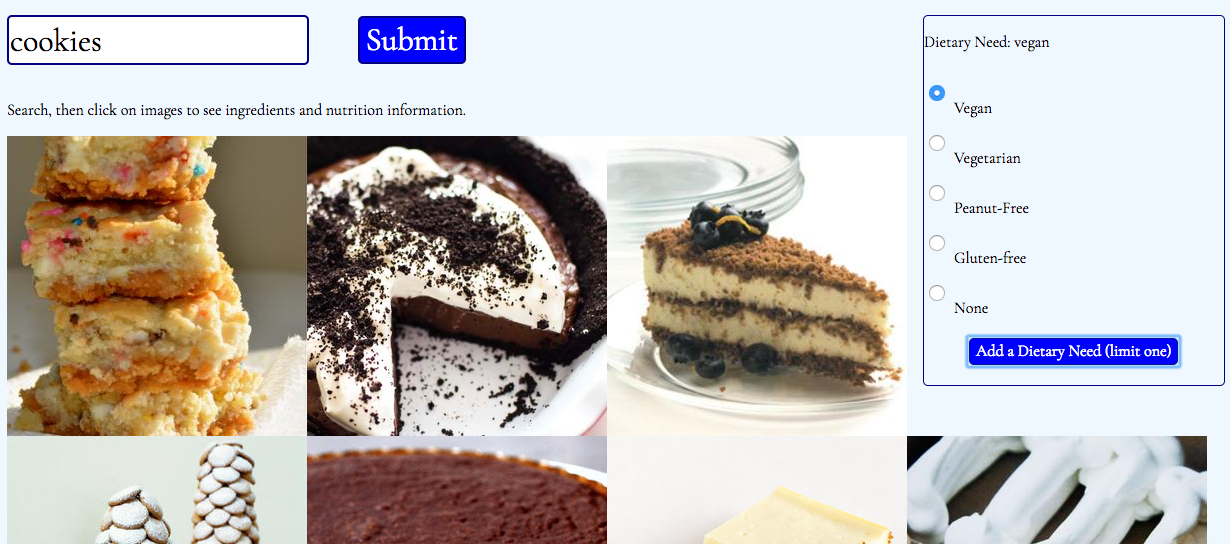
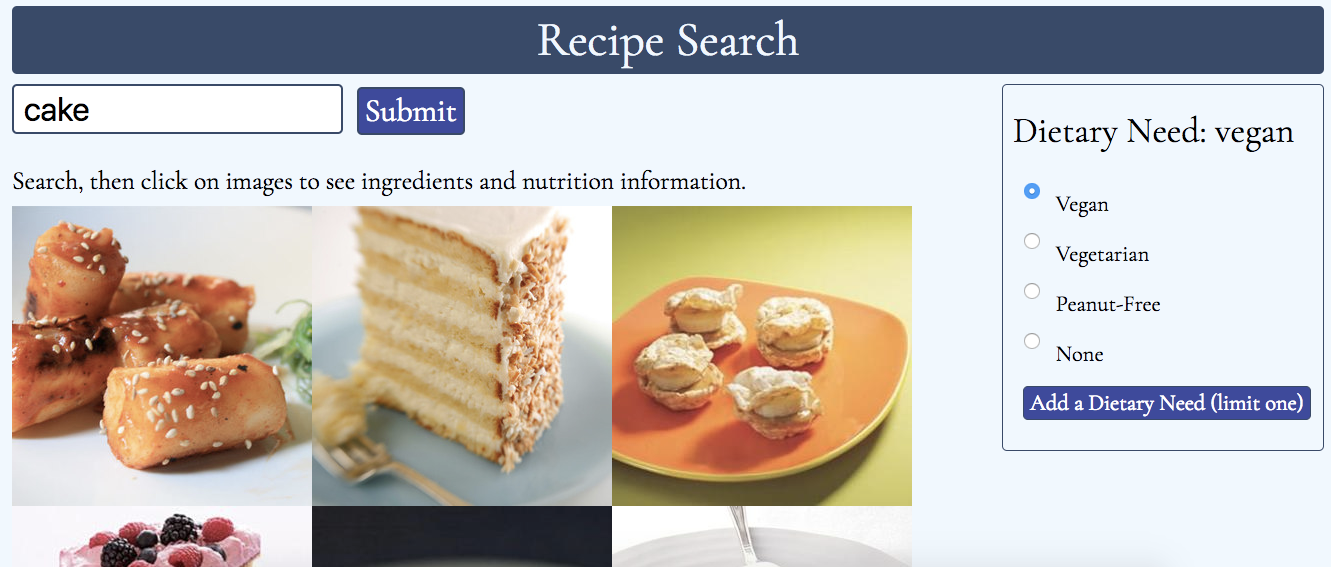
new images

diff --git a/main.css b/main.css
@@ -72,6 +72,7 @@ input {
     border-radius: 5px;
     border: #36486b 2px solid;
     height: 44px;
+    padding-left: 10px;
 }
 
 #health-container {

diff --git a/README.md b/README.md
@@ -14,8 +14,11 @@ Find recipes using a filter, then see their ingredients and nutritional facts wi
 
 ### Search Results
 
-![user list](/search.png)
+![search results](/search.png)
 
+### Recipe Details
+
+![recipe details](/details.png)
 
 ## Tech Stack
 
